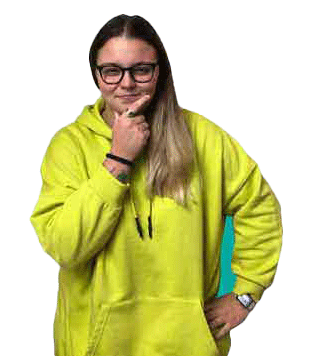
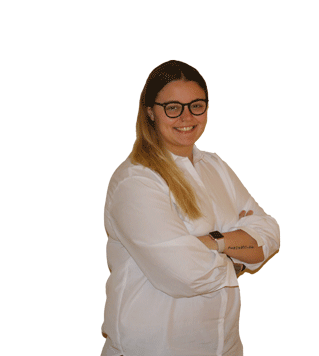
articolo piccolo principe

diff --git a/piccoloprincipe.html b/piccoloprincipe.html
@@ -77,7 +77,7 @@
           
     </header>
   
-<b class="titoloarticolo">Il Piccolo Principe</b>
+<b class="titoloarticolo">Il piccolo principe a Milano</b>
         <p class="autore"> di Desirè Lanza</p>
         <p class="autore"><img class="rotondo" src="img/saraciao.jpg" alt=""></p>
         
@@ -86,12 +86,51 @@
                 <br>
                 Scritto il 4 Febbraio 2020
             </em>
-            <p class="testoarticolo">Lorem ipsum dolor sit amet consectetur, adipisicing elit. Reprehenderit, tenetur repudiandae! Autem impedit modi in natus rerum, tempore enim libero delectus molestiae debitis quidem esse deleniti rem dolores perspiciatis suscipit quibusdam non ipsum aut nam iusto voluptate praesentium consequatur ex. Est dicta dolores voluptate quaerat. Voluptates, doloribus. Excepturi, impedit quibusdam.</p>
-            <img class="fotoarticolo" src="img/a.jpg" alt="">
-            <p class="testoarticolo">Lorem ipsum dolor sit amet consectetur adipisicing elit. Temporibus voluptate commodi expedita eligendi, ad in veritatis quam tempora soluta, beatae ipsa deleniti veniam! Ipsa dicta eveniet tenetur</p>
-            <img class="fotoarticolo" src="img/viatorino.jpg" alt="">
-            <p class="testoarticolo">ullam voluptatum delectus aut iure repudiandae quibusdam in saepe quae, et libero debitis a ratione possimus cum! Unde expedita amet dolore perferendis cumque?</p>
+            <p><em class="cit2">“L'essentiel est invisible pour yeux”</em>
+              <br>
+              <em class="cit2">Antoine de Saint-Exupéry</em></p>
+            <p class="testoarticolo">Consiglio una passeggiata dalla stazione di Garibaldi, passando per Piazza Gae Aulenti. Liberate la mente dai pensieri camminando nel parco Libreria degli alberi e illudetevi per un attimo di essere finiti fuori dalla città. Concludete questo piccolo tour in Via Angelo della Pergola 12, proprio lì dove una luna e un principe con la sua rosa sul suo pianeta vi stanno aspettando.
             <br>
+            <br>
+            <img class="fotoarticolo" src="img/principearticolo.jpg" alt="">
+            <br>
+            <br>
+            Nonostante la rivalità atavica tra Italia e Francia (culinaria, calcistica e chi più ne ha ne metta), Milano non ha potuto resistere alla tentazione di colorare uno dei suoi muri con illustrazioni de Le petit Prince, un eterno capolavoro letterario di una tenerezza e profondità sbalorditiva.
+            <br>
+            <br>
+            E io che adoro le cose belle anche se scontate e banali (e non mi vergogno a dirlo) non potevo che iniziare il mio articolo con una citazione come questa:
+            <br>
+            <br>
+            <em class="cit2">“L’essenziale è invisibile agli occhi”</em>. 
+
+            </p>
+            <p class="testoarticolo">Sentita e risentita, ma sorprendentemente vera nella sua semplicità.
+              <br>
+              <br>
+              Milano di invisibile non ha più niente ormai. Si pensi soltanto ai suoi grattacieli, alla settimana della moda, costellata di personaggi che definirli appariscenti sarebbe riduttivo, e agli abeti, che nel periodo di Natale fanno a gara nelle piazze a chi è più grande, luminoso e vistoso. Insomma, Milano appaga molto bene da sempre il senso della vista dei suoi cittadini e sempre lo farà.
+              <br>
+              <br>
+              <img class="fotoarticolo" src="img/principe2.jpg" alt="">
+              <br> 
+              <br>
+              Ma chi parla sussurrando nelle strade e nelle vie, la vera voce di Milano, quando meno ce lo aspettiamo, ci vuole ricordare altro, ci vuole mostrare la sua visione del mondo. 
+              <br>
+              <br>
+              Proprio in una via del quartiere Isola, emblema della Milano moderna, trovano posto murales di tre famose scene del capolavoro di Saint-Exupery a dirci che nonostante l’urbanizzazione, nonostante l’evoluzione, nonostante il progresso ciò che conta rimane invisibile agli occhi.
+              </p>
+            <br>
+            
+            <p class="testoarticolo">Una celebrazione alla vita vissuta “live”, alle relazioni e all’amicizia che potrebbe riempire anche la tua giornata di good vibes. 
+            <br>
+            <br>
+            Molti di voi, tornati a casa, avranno voglia di riprendere in mano quel libricino. 
+            <br>
+            <br>
+            Ecco, fatelo! Rileggetelo per scoprire se magari ha altro da dirvi ora. 
+            <br>
+            <br>
+            Se invece rileggere non fa per voi, fidatevi che non sarà stato vano il vostro camminare. Avrete infatti comunque una foto artistica da aggiungere al vostro profilo Instagram.
+            </p>
             <b class="titoloarticolo">Ecco dove lo trovi:</b>
             <iframe class="mappa mapparesponsive" src="https://www.google.com/maps/d/u/0/embed?mid=1pwtTkk7Ufr5-5IVkAE7n904YQuu3Pfsn" width="640" height="480"></iframe>
         </article>

diff --git a/aboutus.html b/aboutus.html
@@ -104,7 +104,7 @@
         <p class="descrizionenoi">Lorem ipsum dolor sit amet consectetur adipisicing elit. Earum odit asperiores, itaque cumque dolorem fugit soluta nobis totam officiis nemo voluptatum sit, ab facere rerum accusantium, accusamus nesciunt! Alias corporis consequatur consectetur accusamus eos officia a suscipit aliquam facilis ipsam mollitia itaque beatae qui autem, odio obcaecati nostrum quis ratione dolorum perspiciatis consequuntur. Natus quos, sint sapiente eos sed delectus maxime at perferendis odit cupiditate, autem officiis. Molestiae rem perspiciatis est quo aliquid minus iusto voluptatum maxime eligendi repellendus, dolor nisi vitae ratione eius ipsa officiis temporibus deserunt natus nam ipsum accusantium, hic nihil velit impedit. Blanditiis consequatur in obcaecati doloribus. Amet quas totam quia quibusdam fugiat quae commodi, odit tempore? Fuga ab dicta iste. Delectus voluptate expedita nostrum accusamus ipsam asperiores blanditiis. Dolores iure corporis culpa sit delectus distinctio rem unde voluptate, aliquam optio eligendi numquam quis aliquid corrupti neque deserunt porro dolor ut quo maiores quia tempore adipisci tempora qui? Vitae sed eligendi in repellat laborum maiores omnis quo optio iusto, consequatur, facilis fuga et illum inventore ipsam accusantium obcaecati minima animi hic numquam nisi dolor magni voluptatem rem? Provident perspiciatis, dolorum saepe ipsam delectus architecto adipisci maxime! Ullam rem dolores esse beatae! Sed, numquam. In, pariatur doloribus!</p>
         <div class="contenitore">
         <img class="sara" src="img/saraa.png" alt="">
-        <img class="desi" src="img/saraa.png" alt="">
+        <img class="desi" src="img/desii.png" alt="">
       </div>
       </div>
     <footer>
